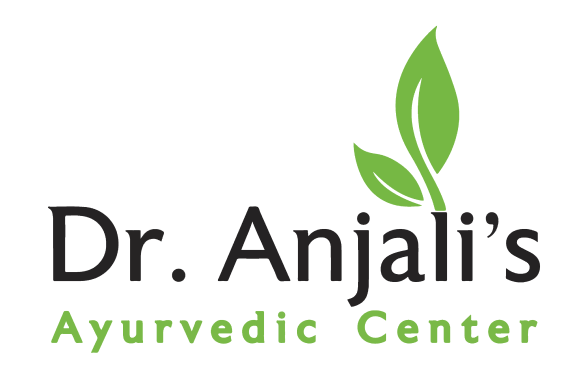
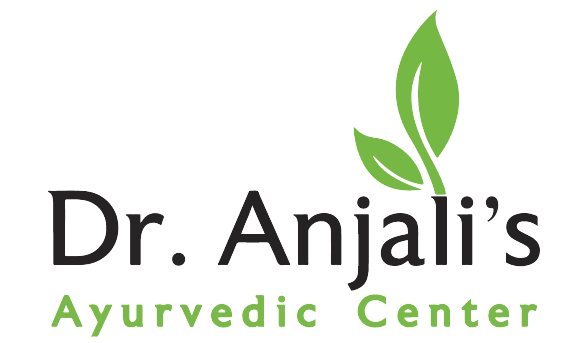
UPDATES

diff --git a/contact.html b/contact.html
@@ -84,7 +84,7 @@
     <div class="th-menu-wrapper">
         <div class="th-menu-area">
             <div class="mobile-logo">
-                <a href="./index.html"><img src="assets/img/anjalis_navbar_logo.webp" alt=""></a>
+                <a href="./index.html"><img style="width: 80%;" src="assets/img/Group 25.png" alt=""></a>
                 <div class="close-menu">
                     <button class="th-menu-toggle"><i class="fal fa-times"></i></button>
                 </div>
@@ -153,10 +153,10 @@ Header Area
             <div class="menu-area">
                 <div class="container th-container">
                     <div class="row align-items-center justify-content-between">
-                        <div class="col-auto">
+                        <div class="col-md-2 col-sm-4 col-4">
                             <div class="header-logo">
                                 <a href="./index.html">
-                                    <img src="assets/img/anjalis_navbar_logo.webp" alt=" ">
+                                    <img style="width: 80%;" src="assets/img/Group 25.png" alt=" ">
                                 </a>
                             </div>
                         </div>
@@ -421,7 +421,9 @@ Contact Area
                 <div class="row align-items-center">
                     <div class="col-lg-6">
                         <p class="copyright-text text-white">© 2024 Dr. Anjali's Ayurvedic Center. All Rights Reserved.
-                            <a href="privacy-policy.html">Privacy Policy</a> |<a href="privacy-policy.html">Terms of Service</a> | <a href="sitemap.html">Sitemap</a></p>
+                            <a href="privacy-policy.html">Privacy Policy</a> |<a href="privacy-policy.html">Terms of
+                                Service</a> | <a href="sitemap.html">Sitemap</a>
+                        </p>
                     </div>
                     <div class="col-lg-6">
                         <div class="footer-links">

diff --git a/treatments.html b/treatments.html
@@ -86,7 +86,7 @@
     <div class="th-menu-wrapper">
         <div class="th-menu-area">
             <div class="mobile-logo">
-                <a href="./index.html"><img src="assets/img/anjalis_navbar_logo.webp" alt=""></a>
+                <a href="./index.html"><img style="width: 80%;" src="assets/img/Group 25.png" alt=""></a>
                 <div class="close-menu">
                     <button class="th-menu-toggle"><i class="fal fa-times"></i></button>
                 </div>
@@ -155,10 +155,10 @@ Header Area
             <div class="menu-area">
                 <div class="container th-container">
                     <div class="row align-items-center justify-content-between">
-                        <div class="col-auto">
+                        <div class="col-md-2 col-sm-4 col-4">
                             <div class="header-logo">
                                 <a href="./index.html">
-                                    <img src="assets/img/anjalis_navbar_logo.webp" alt=" ">
+                                    <img style="width: 80%;" src="assets/img/Group 25.png" alt=" ">
                                 </a>
                             </div>
                         </div>
@@ -727,7 +727,9 @@ Faq Area
                 <div class="row align-items-center">
                     <div class="col-lg-6">
                         <p class="copyright-text text-white">© 2024 Dr. Anjali's Ayurvedic Center. All Rights Reserved.
-                            <a href="privacy-policy.html">Privacy Policy</a> |<a href="privacy-policy.html">Terms of Service</a> | <a href="sitemap.html">Sitemap</a></p>
+                            <a href="privacy-policy.html">Privacy Policy</a> |<a href="privacy-policy.html">Terms of
+                                Service</a> | <a href="sitemap.html">Sitemap</a>
+                        </p>
                     </div>
                     <div class="col-lg-6">
                         <div class="footer-links">

diff --git a/about.html b/about.html
@@ -86,7 +86,7 @@
     <div class="th-menu-wrapper">
         <div class="th-menu-area">
             <div class="mobile-logo">
-                <a href="./index.html"><img src="assets/img/anjalis_navbar_logo.webp" alt=""></a>
+                <a href="./index.html"><img style="width: 80%;" src="assets/img/Group 25.png" alt=""></a>
                 <div class="close-menu">
                     <button class="th-menu-toggle"><i class="fal fa-times"></i></button>
                 </div>
@@ -155,10 +155,10 @@ Header Area
             <div class="menu-area">
                 <div class="container th-container">
                     <div class="row align-items-center justify-content-between">
-                        <div class="col-auto">
+                        <div class="col-md-2 col-sm-4 col-4">
                             <div class="header-logo">
                                 <a href="./index.html">
-                                    <img src="assets/img/anjalis_navbar_logo.webp" alt=" ">
+                                    <img style="width: 80%;" src="assets/img/Group 25.png" alt=" ">
                                 </a>
                             </div>
                         </div>
@@ -181,7 +181,7 @@ Header Area
                             </nav>
                             <button class="th-menu-toggle d-inline-block d-lg-none"><i class="far fa-bars"></i></button>
                         </div>
-                        <div class="col-auto d-none d-xl-block">
+                        <div class="col-md-2 d-none d-xl-block">
                             <div class="header-button">
                                 <a href="#contact-sec" class="th-btn">Book Appointment<i
                                         class="fa-regular fa-arrow-right ms-2"></i></a>

diff --git a/index.html b/index.html
@@ -95,7 +95,7 @@
     <div class="th-menu-wrapper">
         <div class="th-menu-area">
             <div class="mobile-logo">
-                <a href="./index.html"><img src="assets/img/anjalis_navbar_logo.webp" alt=""></a>
+                <a href="./index.html"><img style="width: 80%;" src="assets/img/Group 25.png" alt=""></a>
                 <div class="close-menu">
                     <button class="th-menu-toggle"><i class="fal fa-times"></i></button>
                 </div>
@@ -140,10 +140,10 @@
             <div class="menu-area">
                 <div class="container">
                     <div class="row align-items-center justify-content-between">
-                        <div style="padding-right: 0;" class="col-md-1">
+                        <div class="col-md-2 col-sm-4 col-4">
                             <div class="header-logo">
                                 <a href="./index.html">
-                                    <img width="100%" src="assets/img/Group 25.png" alt="">
+                                    <img style="width: 80%;" src="assets/img/Group 25.png" alt=" ">
                                 </a>
                             </div>
                         </div>

diff --git a/cookies-policy.html b/cookies-policy.html
@@ -84,7 +84,7 @@
     <div class="th-menu-wrapper">
         <div class="th-menu-area">
             <div class="mobile-logo">
-                <a href="./index.html"><img src="assets/img/anjalis_navbar_logo.webp" alt=""></a>
+                <a href="./index.html"><img style="width: 80%;" src="assets/img/Group 25.png" alt=""></a>
                 <div class="close-menu">
                     <button class="th-menu-toggle"><i class="fal fa-times"></i></button>
                 </div>
@@ -153,10 +153,10 @@ Header Area
             <div class="menu-area">
                 <div class="container th-container">
                     <div class="row align-items-center justify-content-between">
-                        <div class="col-auto">
+                        <div class="col-md-2 col-sm-4 col-4">
                             <div class="header-logo">
                                 <a href="./index.html">
-                                    <img src="assets/img/anjalis_navbar_logo.webp" alt=" ">
+                                    <img style="width: 80%;" src="assets/img/Group 25.png" alt=" ">
                                 </a>
                             </div>
                         </div>

diff --git a/doctors.html b/doctors.html
@@ -85,7 +85,7 @@
     <div class="th-menu-wrapper">
         <div class="th-menu-area">
             <div class="mobile-logo">
-                <a href="./index.html"><img src="assets/img/anjalis_navbar_logo.webp" alt=""></a>
+                <a href="./index.html"><img style="width: 80%;" src="assets/img/Group 25.png" alt=""></a>
                 <div class="close-menu">
                     <button class="th-menu-toggle"><i class="fal fa-times"></i></button>
                 </div>
@@ -154,10 +154,10 @@ Header Area
             <div class="menu-area">
                 <div class="container th-container">
                     <div class="row align-items-center justify-content-between">
-                        <div class="col-auto">
+                        <div class="col-md-2 col-sm-4 col-4">
                             <div class="header-logo">
                                 <a href="./index.html">
-                                    <img src="assets/img/anjalis_navbar_logo.webp" alt=" ">
+                                    <img style="width: 80%;" src="assets/img/Group 25.png" alt=" ">
                                 </a>
                             </div>
                         </div>

diff --git a/privacy-policy.html b/privacy-policy.html
@@ -84,7 +84,7 @@
     <div class="th-menu-wrapper">
         <div class="th-menu-area">
             <div class="mobile-logo">
-                <a href="./index.html"><img src="assets/img/anjalis_navbar_logo.webp" alt=""></a>
+                <a href="./index.html"><img style="width: 80%;" src="assets/img/Group 25.png" alt=""></a>
                 <div class="close-menu">
                     <button class="th-menu-toggle"><i class="fal fa-times"></i></button>
                 </div>
@@ -153,10 +153,10 @@ Header Area
             <div class="menu-area">
                 <div class="container th-container">
                     <div class="row align-items-center justify-content-between">
-                        <div class="col-auto">
+                        <div class="col-md-2 col-sm-4 col-4">
                             <div class="header-logo">
                                 <a href="./index.html">
-                                    <img src="assets/img/anjalis_navbar_logo.webp" alt=" ">
+                                    <img style="width: 80%;" src="assets/img/Group 25.png" alt=" ">
                                 </a>
                             </div>
                         </div>

diff --git a/service.html b/service.html
@@ -84,7 +84,7 @@
     <div class="th-menu-wrapper">
         <div class="th-menu-area">
             <div class="mobile-logo">
-                <a href="./index.html"><img src="assets/img/anjalis_navbar_logo.webp" alt=""></a>
+                <a href="./index.html"><img style="width: 80%;" src="assets/img/Group 25.png" alt=""></a>
                 <div class="close-menu">
                     <button class="th-menu-toggle"><i class="fal fa-times"></i></button>
                 </div>
@@ -153,10 +153,10 @@ Header Area
             <div class="menu-area">
                 <div class="container th-container">
                     <div class="row align-items-center justify-content-between">
-                        <div class="col-auto">
+                        <div class="col-md-2 col-sm-4 col-4">
                             <div class="header-logo">
                                 <a href="./index.html">
-                                    <img src="assets/img/anjalis_navbar_logo.webp" alt=" ">
+                                    <img style="width: 80%;" src="assets/img/Group 25.png" alt=" ">
                                 </a>
                             </div>
                         </div>

diff --git a/sitemap.html b/sitemap.html
@@ -84,7 +84,7 @@
     <div class="th-menu-wrapper">
         <div class="th-menu-area">
             <div class="mobile-logo">
-                <a href="./index.html"><img src="assets/img/anjalis_navbar_logo.webp" alt=""></a>
+                <a href="./index.html"><img style="width: 80%;" src="assets/img/Group 25.png" alt=""></a>
                 <div class="close-menu">
                     <button class="th-menu-toggle"><i class="fal fa-times"></i></button>
                 </div>
@@ -153,10 +153,10 @@ Header Area
             <div class="menu-area">
                 <div class="container th-container">
                     <div class="row align-items-center justify-content-between">
-                        <div class="col-auto">
+                        <div class="col-md-2 col-sm-4 col-4">
                             <div class="header-logo">
                                 <a href="./index.html">
-                                    <img src="assets/img/anjalis_navbar_logo.webp" alt=" ">
+                                    <img style="width: 80%;" src="assets/img/Group 25.png" alt=" ">
                                 </a>
                             </div>
                         </div>

diff --git a/terms-and-conditions.html b/terms-and-conditions.html
@@ -84,7 +84,7 @@
     <div class="th-menu-wrapper">
         <div class="th-menu-area">
             <div class="mobile-logo">
-                <a href="./index.html"><img src="assets/img/anjalis_navbar_logo.webp" alt=""></a>
+                <a href="./index.html"><img style="width: 80%;" src="assets/img/Group 25.png" alt=""></a>
                 <div class="close-menu">
                     <button class="th-menu-toggle"><i class="fal fa-times"></i></button>
                 </div>
@@ -153,10 +153,10 @@ Header Area
             <div class="menu-area">
                 <div class="container th-container">
                     <div class="row align-items-center justify-content-between">
-                        <div class="col-auto">
+                        <div class="col-md-2 col-sm-4 col-4">
                             <div class="header-logo">
                                 <a href="./index.html">
-                                    <img src="assets/img/anjalis_navbar_logo.webp" alt=" ">
+                                    <img style="width: 80%;" src="assets/img/Group 25.png" alt=" ">
                                 </a>
                             </div>
                         </div>

diff --git a/assets/css/style.css b/assets/css/style.css
@@ -1274,7 +1274,8 @@ textarea.is-invalid {
   padding-top: 40px;
   display: block;
   text-align: center;
-  background-color: var(--theme-color);
+  background-color: #fff;
+  border-bottom: 2px solid var(--theme-color);
 }
 
 .th-menu-wrapper .mobile-logo svg {
@@ -31703,8 +31704,9 @@ span.select2-selection.select2-selection--single:focus {
 
 @media (max-width: 768px) {
 .header-logo img {
-    width: 30%;
-    float: 50%;
+    width: 150%;
+    float: left;
+    
   }
 }
 
